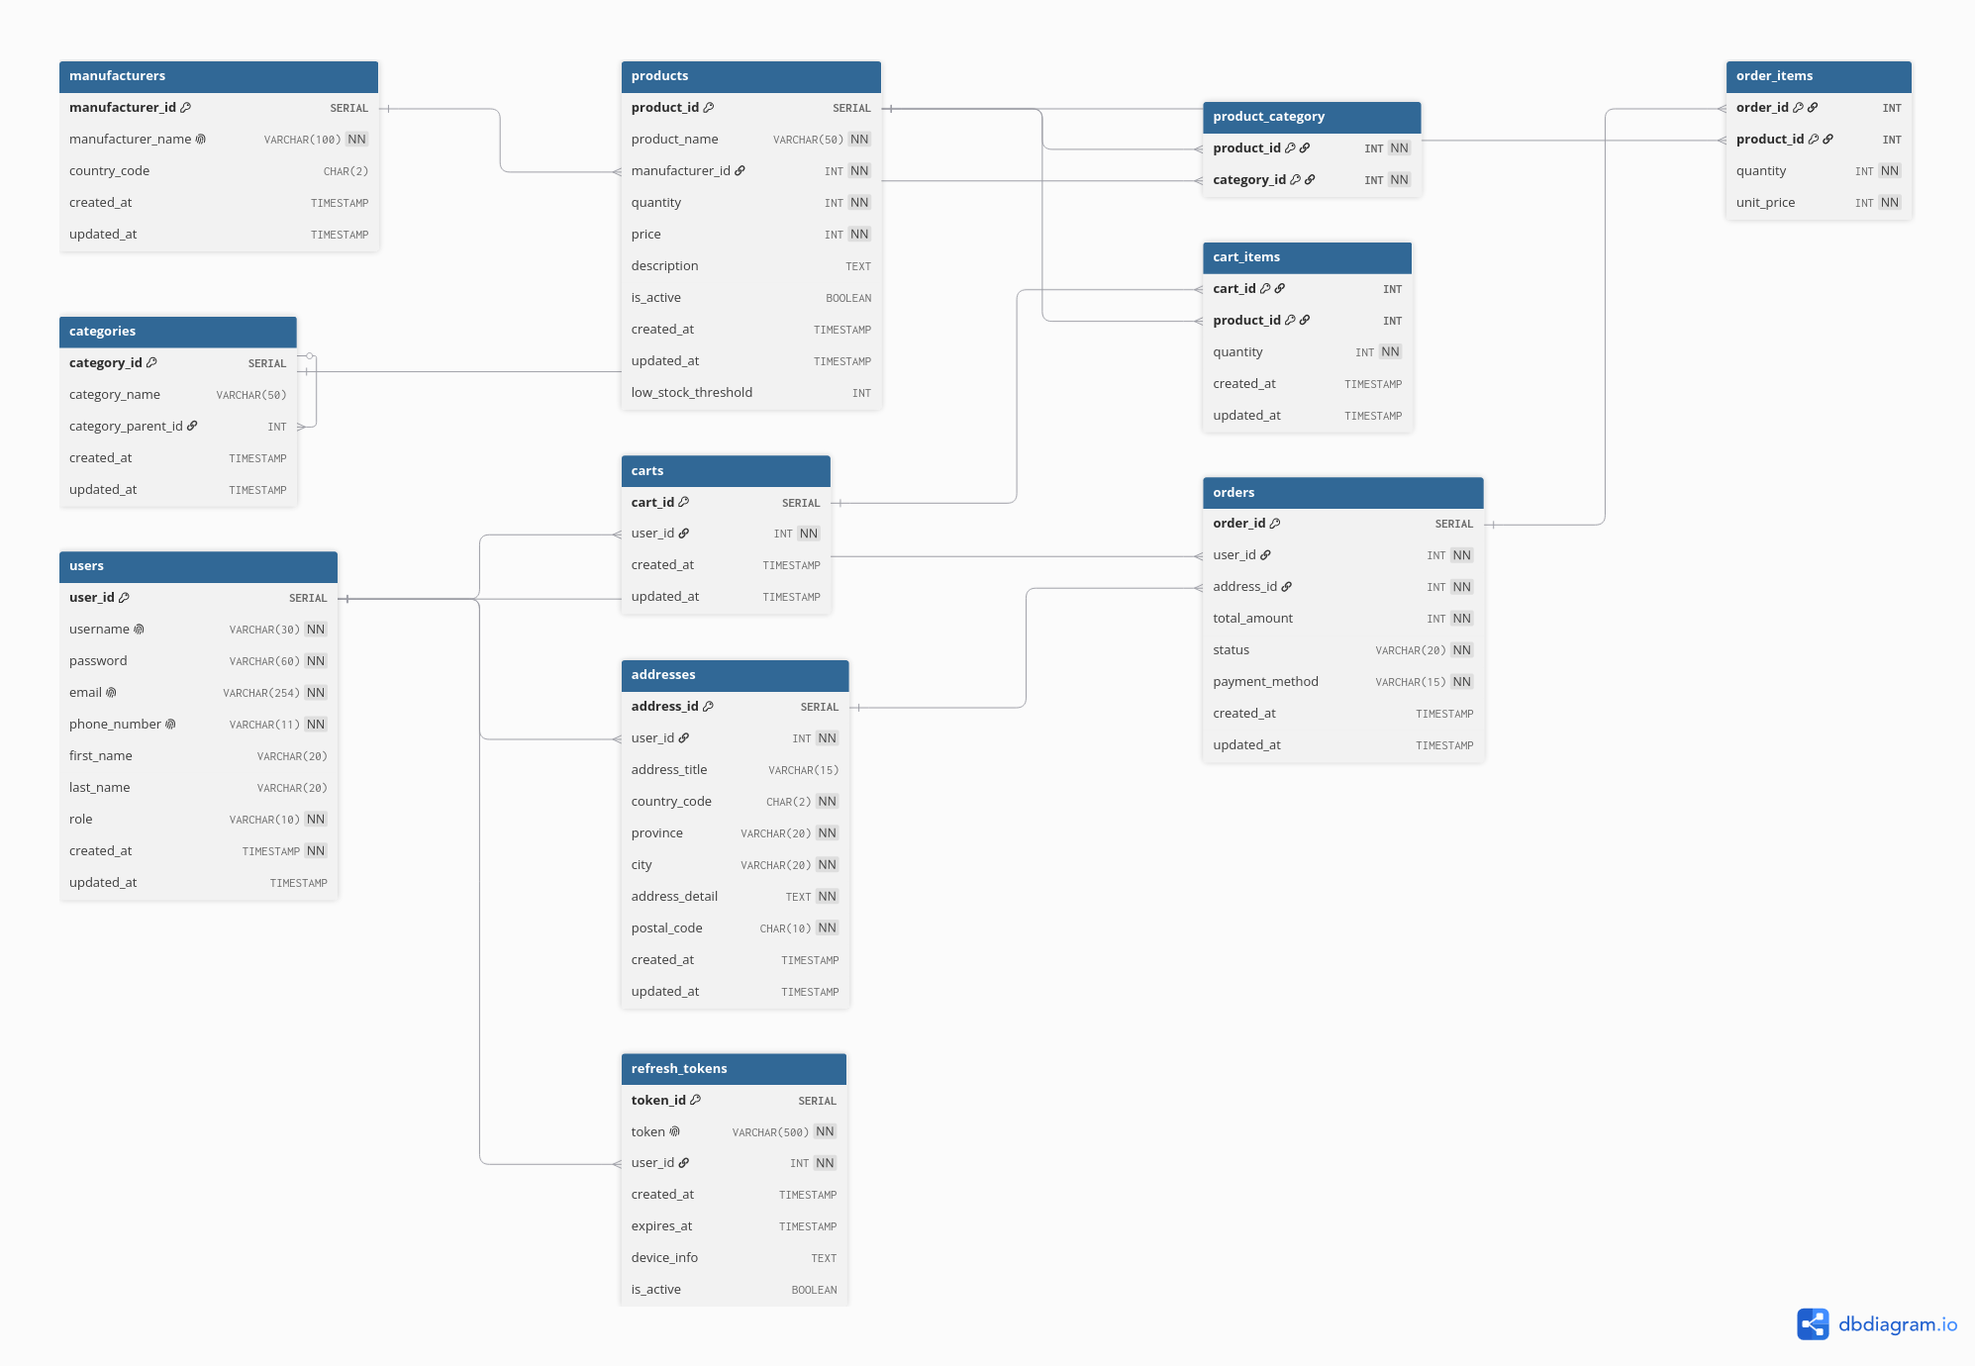
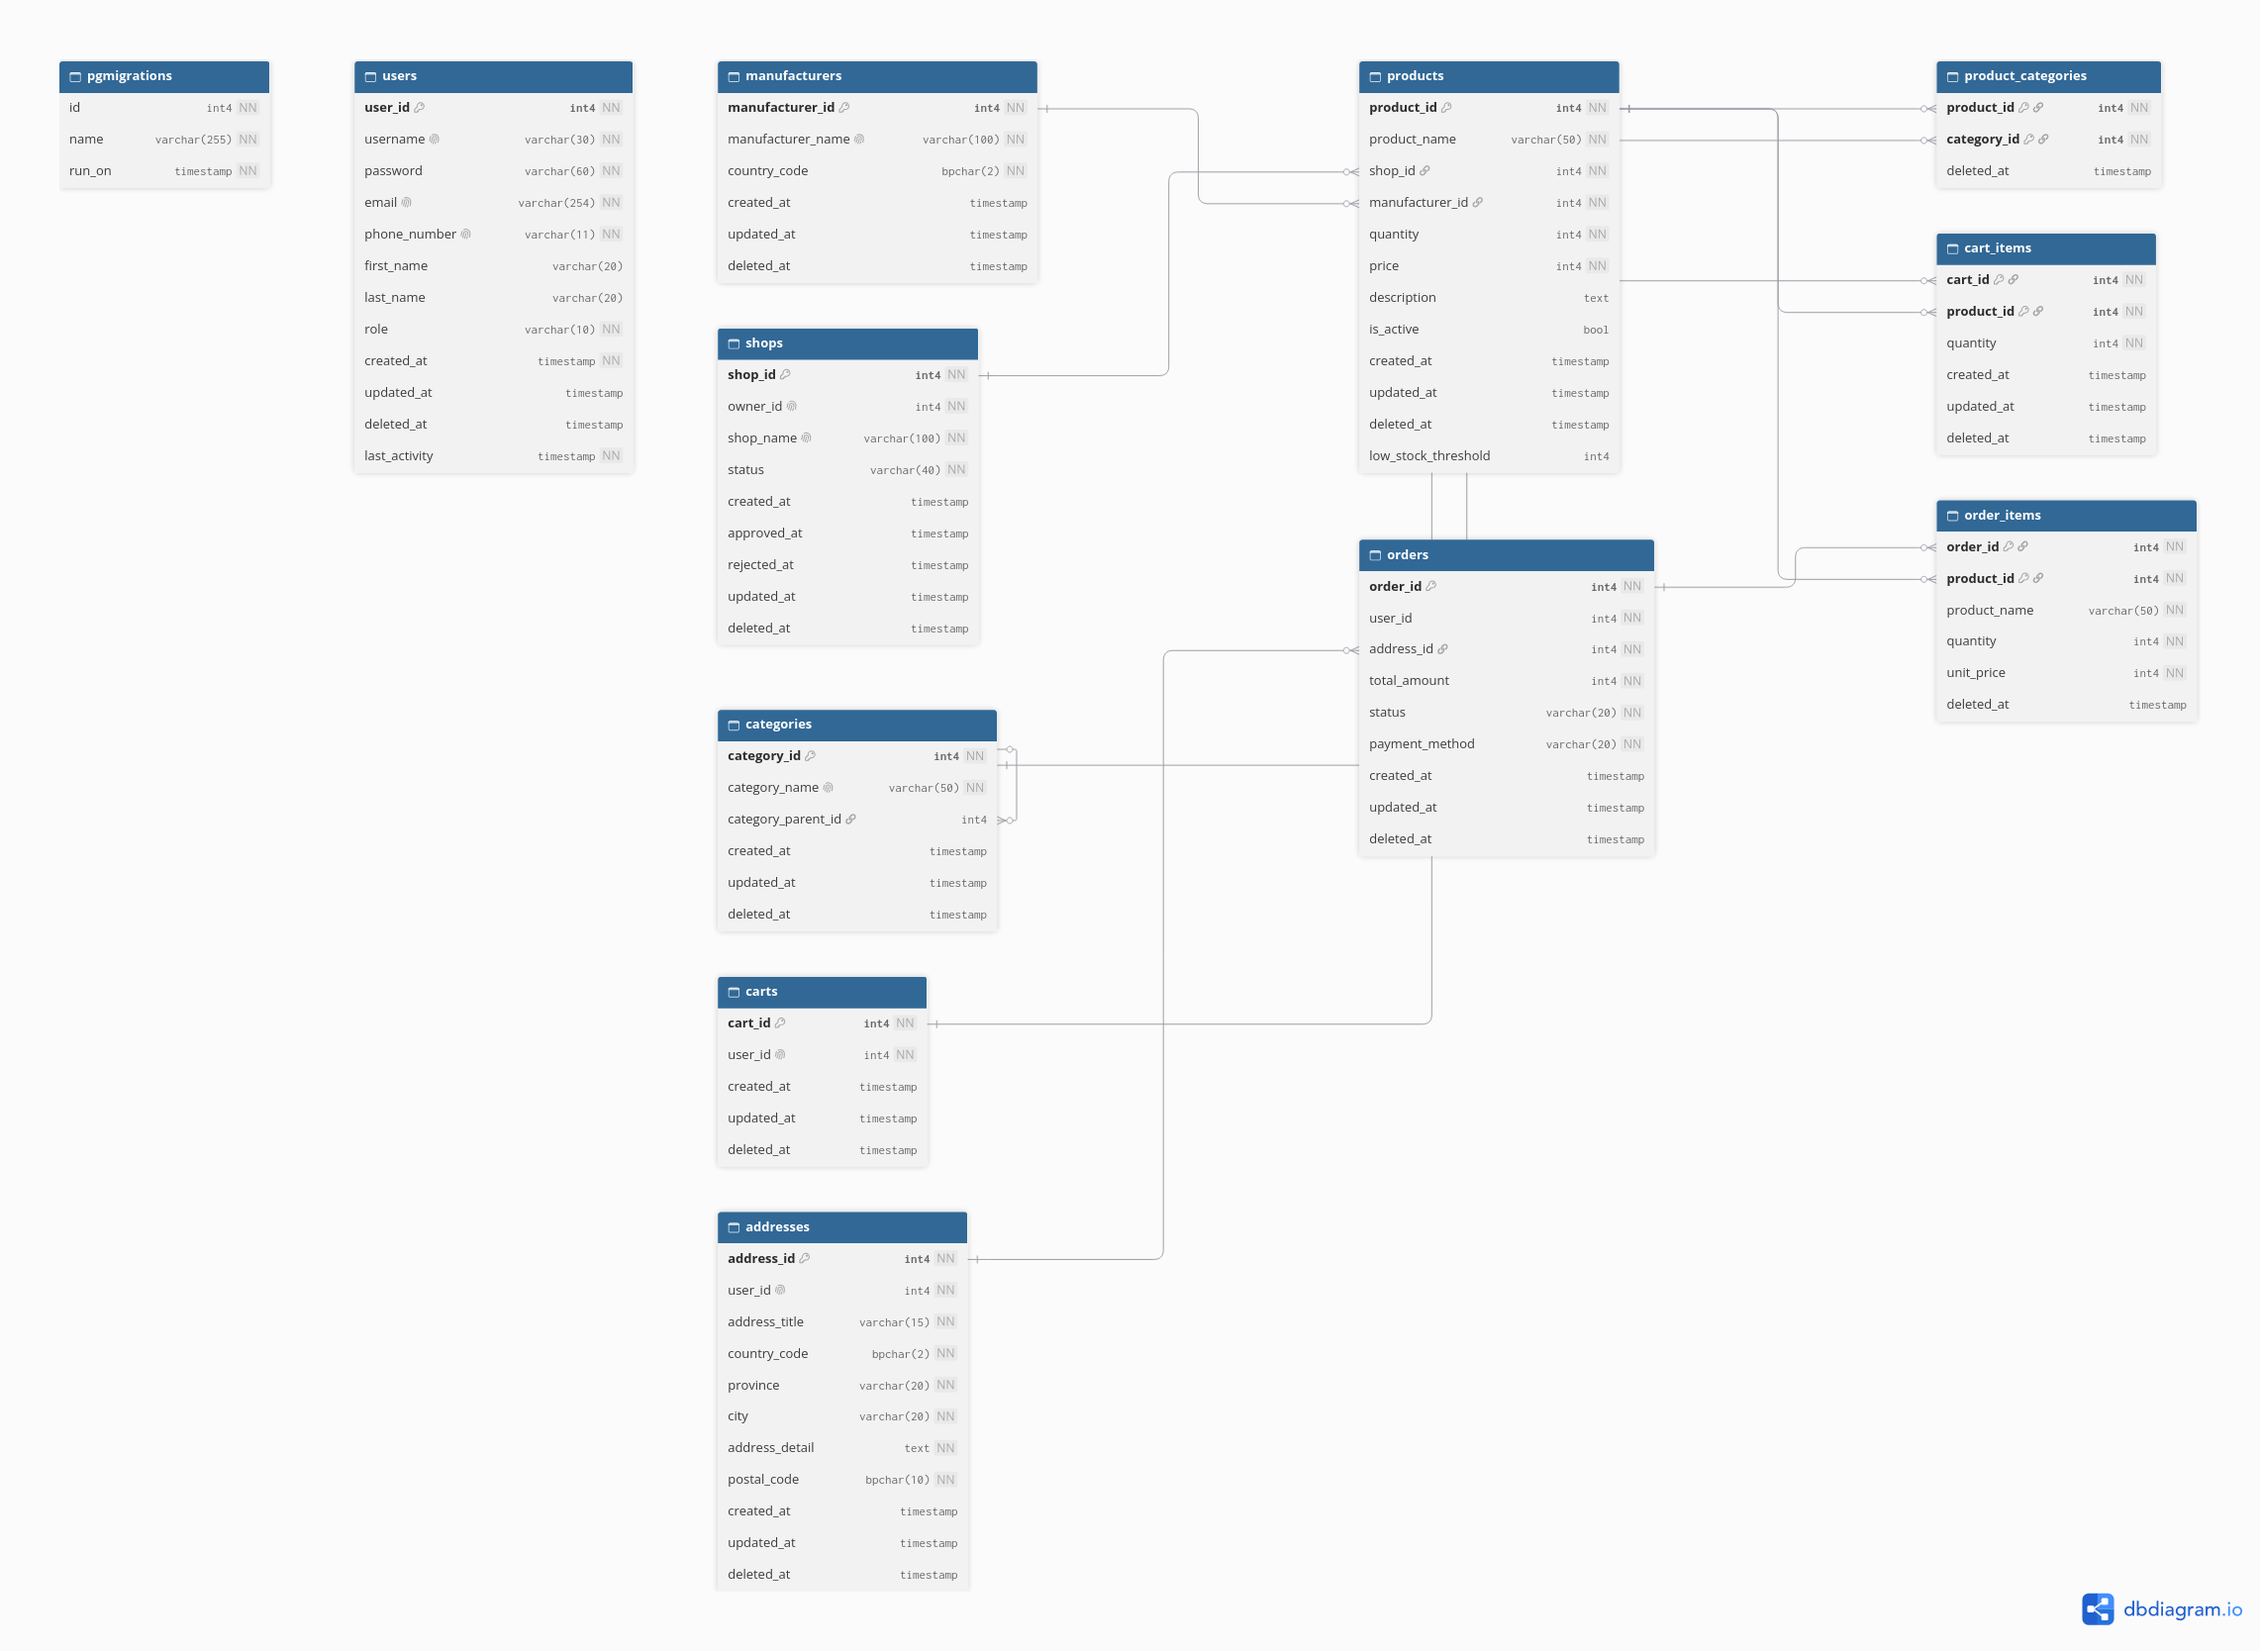
its kinda done

diff --git a/server/logics/profile/profile.controller.ts b/server/logics/profile/profile.controller.ts
@@ -4,6 +4,10 @@ import { userInfoSchema, changeUsernameSchema, changePasswordSchema } from './pr
 import { User } from '../auth/user.entity.ts';
 import { AppDataSource } from '../../configs/data-sources.ts';
 import z from 'zod';
+import { Shop } from '../shop/shop.entity.ts';
+import { Product } from '../products/product.entity.ts';
+import { softDeleteProducts } from '../products/products.helper.ts';
+import { IsNull } from 'typeorm';
 async function getProfile(req: Request, res: Response) {
   if (!req.user) {
     return res.status(404).json({ message: 'user not found' });
@@ -123,15 +127,35 @@ async function deleteProfile(req: Request, res: Response) {
   if (!req.user) {
     return res.status(401).json({ message: 'not authorized' });
   }
-  const userId = req.user.userId;
+  const user = req.user;
   try {
-    const repo = AppDataSource.getRepository(User);
-    const result = await repo.softDelete({ userId: userId });
+    if (user.role === 'user') {
+      const repo = AppDataSource.getRepository(User);
+      const result = await repo.softDelete({ userId: user.userId });
 
-    if (result.affected === 0) {
-      return res.status(404).json({ message: 'user not found' });
+      if (result.affected === 0) {
+        return res.status(404).json({ message: 'user not found' });
+      }
+
+      clearCookie(res);
+      return res.status(200).json({ message: 'goodbye' });
     }
+    const outcome = await AppDataSource.transaction(async (manager) => {
+      const shop = await manager.findOne(Shop, {
+        where: { ownerId: user.userId },
+        select: { shopId: true },
+        lock: { mode: 'pessimistic_write' },
+      });
+      if (!shop) return 'not_found' as const;
+      await manager.softDelete(Shop, { shopId: shop.shopId, deletedAt: IsNull() });
+      await manager.softDelete(Product, { shopId: shop.shopId, deletedAt: IsNull() });
+      await softDeleteProducts(manager, { shopId: shop.shopId });
+      return 'ok' as const;
+    });
 
+    if (outcome === 'not_found') {
+      return res.status(404).json({ message: 'shop not found' });
+    }
     clearCookie(res);
     return res.status(200).json({ message: 'goodbye' });
   } catch {

diff --git a/migrations/1000000000001_create-users-table.js b/migrations/1000000000001_create-users-table.js
@@ -2,23 +2,36 @@ export const shorthands = undefined;
 
 export const up = (pgm) => {
   pgm.sql(`
-        CREATE TABLE users (
-    user_id       SERIAL,
-    username      VARCHAR(30)  NOT NULL UNIQUE,
-    password      VARCHAR(60)  NOT NULL,
-    email         VARCHAR(254) NOT NULL UNIQUE,
-    phone_number  VARCHAR(11)  NOT NULL UNIQUE,
-    first_name    VARCHAR(20),
-    last_name     VARCHAR(20),
-    role          VARCHAR(10)  NOT NULL DEFAULT 'user',
-    created_at    TIMESTAMP    NOT NULL DEFAULT NOW(),
-    updated_at    TIMESTAMP,
-    deleted_at    TIMESTAMP,
-    last_activity   TIMESTAMP NOT NULL DEFAULT NOW(),
+    CREATE TABLE users (
+    user_id         SERIAL,
+    username        VARCHAR(30)  NOT NULL,
+    password        VARCHAR(60)  NOT NULL,
+    email           VARCHAR(254) NOT NULL,
+    phone_number    VARCHAR(11)  NOT NULL,
+    first_name      VARCHAR(20),
+    last_name       VARCHAR(20),
+    role            VARCHAR(10)  NOT NULL DEFAULT 'user',
+    created_at      TIMESTAMP    NOT NULL DEFAULT NOW(),
+    updated_at      TIMESTAMP,
+    deleted_at      TIMESTAMP,
+    last_activity   TIMESTAMP    NOT NULL DEFAULT NOW(),
 
     CONSTRAINT pk_user_id PRIMARY KEY (user_id),
     CONSTRAINT chk_role CHECK (role IN ('user', 'admin', 'owner'))
-);`);
+);
+
+CREATE UNIQUE INDEX users_username_unique_active
+    ON users (username)
+    WHERE deleted_at IS NULL;
+
+CREATE UNIQUE INDEX users_email_unique_active
+    ON users (email)
+    WHERE deleted_at IS NULL;
+
+CREATE UNIQUE INDEX users_phone_number_unique_active
+    ON users (phone_number)
+    WHERE deleted_at IS NULL;
+        `);
 };
 
 export const down = (pgm) => {

diff --git a/server/logics/auth/user.entity.ts b/server/logics/auth/user.entity.ts
@@ -8,6 +8,7 @@ import {
   CreateDateColumn,
   UpdateDateColumn,
   DeleteDateColumn,
+  Index,
 } from 'typeorm';
 import { Cart } from '../cart/carts.entity';
 import { Address } from '../address/addresses.entity';
@@ -16,21 +17,33 @@ import { Shop } from '../shop/shop.entity';
 export type UserRole = 'user' | 'admin' | 'owner';
 
 @Entity('users')
+@Index('users_username_unique_active', ['username'], {
+  unique: true,
+  where: '"deleted_at" IS NULL',
+})
+@Index('users_email_unique_active', ['email'], {
+  unique: true,
+  where: '"deleted_at" IS NULL',
+})
+@Index('users_phone_number_unique_active', ['phoneNumber'], {
+  unique: true,
+  where: '"deleted_at" IS NULL',
+})
 @Check('chk_role', `"role" IN ('user', 'admin', 'owner')`)
 export class User {
   @PrimaryGeneratedColumn({ name: 'user_id', primaryKeyConstraintName: 'pk_user_id' })
   userId: number;
 
-  @Column({ type: 'varchar', length: 30, unique: true })
+  @Column({ type: 'varchar', length: 30 })
   username: string;
 
   @Column({ type: 'varchar', length: 60, select: false })
   password: string;
 
-  @Column({ type: 'varchar', length: 254, unique: true })
+  @Column({ type: 'varchar', length: 254 })
   email: string;
 
-  @Column({ name: 'phone_number', type: 'varchar', length: 11, unique: true })
+  @Column({ name: 'phone_number', type: 'varchar', length: 11 })
   phoneNumber: string;
 
   @Column({ name: 'first_name', type: 'varchar', length: 20, nullable: true })

diff --git a/server/logics/profile/profileRouter.ts b/server/logics/profile/profileRouter.ts
@@ -1,4 +1,4 @@
-import { loginCheck } from '../auth/auth.middleware.ts';
+import { loginCheck, requireRole } from '../auth/auth.middleware.ts';
 import {
   changeFullname,
   changePassword,
@@ -180,6 +180,6 @@ Profilerouter.put('/change-fullname', loginCheck, changeFullname);
  *       500:
  *         description: Unexpected error
  */
-Profilerouter.delete('/delete-profile', loginCheck, deleteProfile);
+Profilerouter.delete('/delete-profile', loginCheck, requireRole('user'), deleteProfile);
 
 export { Profilerouter };

diff --git a/server/logics/shared.helpers.ts b/server/logics/shared.helpers.ts
@@ -1,6 +1,5 @@
 import { DatabaseError } from 'pg';
 import { QueryFailedError } from 'typeorm';
-
 type projectStatus = 'online' | 'offline';
 const projectstatus = process.env.CURRENT_STATUS as projectStatus;
 function logger(err: unknown, status: projectStatus) {

diff --git a/README.md b/README.md
@@ -17,10 +17,10 @@ The main goals of this project are:
 - Practice authentication and authorization
 - Implement Role-Based Access Control (RBAC)
 - Use Redis for caching and performance optimization
-- Work with background jobs (Cron Jobs)
-- Implement file uploads using Object Storage
+- Implement file uploads using Object Storage(Soon)
+- Work with background jobs (Cron Jobs)(Soon)
 - Document APIs with Swagger
-- Containerize the application using Docker
+- Containerize the application using Docker(Soon)
 - Deploy a production-ready backend
 
 ## Tech Stack
@@ -29,8 +29,9 @@ The main goals of this project are:
 - Express.js
 - TypeScript
 - PostgreSQL
+- TypeORM
+- Zod
 - Redis
-- Passport.js
 - JWT
 - Swagger (OpenAPI)
 - Docker
@@ -59,7 +60,7 @@ Full SQL schema: [`database/schema.sql`](database/schema.sql)
 | `addresses`        | User shipping addresses (one-to-many)                          |
 | `orders`           | Placed orders                                                  |
 | `order_items`      | Snapshot of purchased products (price locked at purchase time) |
-| `refresh_tokens`   | JWT refresh tokens per device/session                          |
+| `shops`            | Users owned shop                                               |
 
 ## Main Features
 
@@ -68,19 +69,19 @@ Full SQL schema: [`database/schema.sql`](database/schema.sql)
 - User Registration
 - User Login
 - JWT Authentication
-- Refresh Tokens
 - Logout
 - Password Hashing
 
 ### Authorization
 
 - Role-Based Access Control (RBAC)
-- Roles: User, Admin
+- Roles: User, Admin, Owner
 
 ### Products
 
 - Browse Products
 - Search Products
+- Edit Products
 - Filter Products
 - Sort Products
 - Pagination
@@ -88,6 +89,7 @@ Full SQL schema: [`database/schema.sql`](database/schema.sql)
 
 ### Shopping Cart
 
+- Get Items
 - Add Items
 - Remove Items
 - Update Item Quantity
@@ -99,7 +101,7 @@ Full SQL schema: [`database/schema.sql`](database/schema.sql)
 - Order Status
 - Order Tracking
 
-### Product Images
+### Product Images(Soon)
 
 - Upload Product Images
 - Store Images in S3-Compatible Object Storage
@@ -112,22 +114,23 @@ Full SQL schema: [`database/schema.sql`](database/schema.sql)
 - Manage Categories
 - Manage Orders
 - Manage Users
+- Manage Shops
+- Manage Manufactures
 
 ### Redis
 
-- Product Cache
-- Cart Cache
+- Product Cache(Soon)
+- Cart Cache(Soon)
 - Rate Limiting
-- JWT Token Blacklist
 
-### Background Jobs (Cron Jobs)
+### Background Jobs (Cron Jobs) (Soon)
 
 - Detect Low Stock Products
 - Clear Abandoned Carts
 - Remove Expired Refresh Tokens
 - Daily Maintenance Tasks
 
-### File Upload
+### File Upload (Soon)
 
 - Upload Files
 - Store Files using S3-Compatible Object Storage
@@ -145,9 +148,9 @@ Docker Compose services:
 - API
 - PostgreSQL
 - Redis
-- MinIO (Object Storage)
+- MinIO (Object Storage) (Soon)
 
-## Object Storage
+## Object Storage (Soon)
 
 This project uses MinIO, an S3-compatible object storage service running inside Docker for local development.
 
